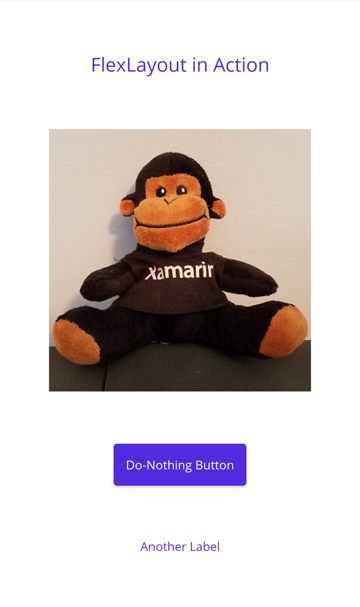
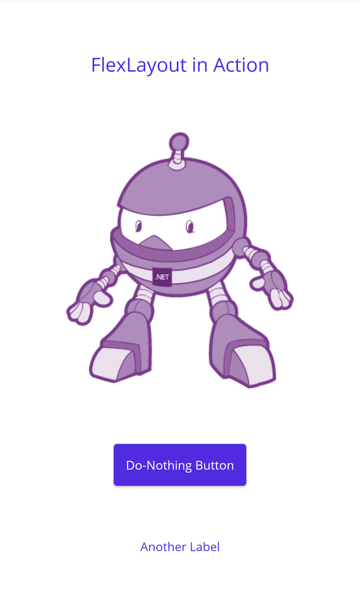
Another example.

diff --git a/docs/user-interface/layouts/flexlayout.md b/docs/user-interface/layouts/flexlayout.md
@@ -33,6 +33,8 @@ These properties are backed by `BindableProperty` objects, which means that the 
 > [!IMPORTANT]
 > When items in a `FlexLayout` are arranged in a column, the `FlexLayout` has a vertical *main axis* and a horizontal *cross axis*. When items in a `FlexLayout` are arranged in a row, the `FlexLayout` has a horizontal *main axis* and a vertical *cross axis*.
 
+<!-- `FlexLayout` and its children can be partially styled using Cascading Style Sheets (CSS). For more information, see [Styling apps using Cascading Style Sheets (CSS)](). -->
+
 ## Orientation and alignment
 
 The `Direction`, `Wrap`, `JustifyContent`, `AlignItems`, `AlignContent`, and `Position` bindable properties can be set on a `FlexLayout` to control orientation and alignment of all children.
@@ -150,7 +152,7 @@ Usually, children are arranged in the order in which they are added to the `Flex
 
 ### Basis
 
-The `Basis` property, of type `FlexBasis`, defines the amount of space that's allocated to a child on the main axis. The value specified by this property is the size along the main axis of the parent `FlexLayout`. Therefore, this property indicates the width of a child when children are arranged in rows, or the height of a child when children are arranged in columns.
+The `Basis` property, of type `FlexBasis`, defines the amount of space that's allocated to a child on the main axis. The value specified by this property is the size along the main axis of the parent `FlexLayout`. Therefore, this property indicates the width of a child when children are arranged in rows, or the height of a child when children are arranged in columns. This property is called *basis* because it specifies a size that is the basis of all subsequent layout.
 
 The `FlexBasis` type is a structure that enables size to be specified in device-independent units, or as a percentage of the size of the `FlexLayout`. The default value of the `Basis` property is `Auto`, which means that the child's requested width or height is used.
 
@@ -215,7 +217,8 @@ A `FlexLayout` can substitute for a `StackLayout`:
                 JustifyContent="SpaceEvenly">        
         <Label Text="FlexLayout in Action"
                FontSize="Large" />
-        <Image Source="seatedmonkey.jpg" />
+        <Image Source="dotnet_bot_branded.png"
+               HeightRequest="300" />
         <Button Text="Do-Nothing Button" />
         <Label Text="Another Label" />
     </FlexLayout>
@@ -259,14 +262,14 @@ In addition, the `FlexLayout` is a child of a `ScrollView`. Therefore, if there 
 
 ### Page layout
 
-There is a standard layout in web design called the [_holy grail_](https://en.wikipedia.org/wiki/Holy_grail_(web_design)) because it's a layout format that is very desirable, but often hard to realize with perfection. The layout consists of a header at the top of the page and a footer at the bottom, both extending to the full width of the page. Occupying the center of the page is the main content, but often with a columnar menu to the left of the content and supplementary information (sometimes called an _aside_ area) at the right. [Section 5.4.1 of the CSS Flexible Box Layout specification](https://www.w3.org/TR/css-flexbox-1/#order-accessibility) describes how the holy grail layout can be realized with a flex box.
+There is a standard layout in web design called the [*holy grail*](https://en.wikipedia.org/wiki/Holy_grail_(web_design)) because it's a layout format that is very desirable, but often hard to realize with perfection. The layout consists of a header at the top of the page and a footer at the bottom, both extending to the full width of the page. Occupying the center of the page is the main content, but often with a columnar menu to the left of the content and supplementary information (sometimes called an *aside* area) at the right. This layout can be realized with a `FlexLayout`.
 
-The **Holy Grail Layout** page of the **[FlexLayoutDemos](/samples/xamarin/xamarin-forms-samples/userinterface-flexlayoutdemos)** sample shows a simple implementation of this layout using one `FlexLayout` nested in another. Because this page is designed for a phone in portrait mode, the areas to the left and right of the content area are only 50 pixels wide:
+The following example shows an implementation of this layout using a `FlexLayout` nested in another:
 
 ```xaml
 <ContentPage xmlns="http://schemas.microsoft.com/dotnet/2021/maui"
              xmlns:x="http://schemas.microsoft.com/winfx/2009/xaml"
-             x:Class="FlexLayoutDemos.HolyGrailLayoutPage"
+             x:Class="FlexLayoutDemos.Views.HolyGrailLayoutPage"
              Title="Holy Grail Layout">
 
     <FlexLayout Direction="Column">
@@ -308,267 +311,11 @@ The **Holy Grail Layout** page of the **[FlexLayoutDemos](/samples/xamarin/xamar
 </ContentPage>
 ```
 
-Here it is running:
+The navigation and aside areas are rendered with a `BoxView` on the left and right. The first `FlexLayout` has a vertical main axis and contains three children arranged in a column. These are the header, the body of the page, and the footer. The nested `FlexLayout` has a horizontal main axis with three children arranged in a row:
 
-[![The Holy Grail Layout Page.](flex-layout-images/HolyGrailLayout.png "The Holy Grail Layout Page."](flex-layout-images/HolyGrailLayout-Large.png#lightbox)]
+:::image type="content" source="media/flexlayout/holy-grail.png" alt-text="Holy grail layout with the .NET MAUI FlexLayout.":::
 
-The navigation and aside areas are rendered with a `BoxView` on the left and right.
+In this example, the `Order` property is set on the first `BoxView` to a value less than its siblings to cause it to appear as the first item in the row. The `Basis` property is set on both `BoxView` objects to give them a width of 50 device-independent units. The `Grow` property is set on the nested `FlexLayout` to indicate that this `FlexLayout` should occupy all of the unused vertical space within the outer `FlexLayout`. In addition, the `Grow` property is set on the `Label` representing the content, to indicate that this content is to occupy all of the unused horizontal space within the nested `FlexLayout`.
 
-The first `FlexLayout` in the XAML file has a vertical main axis and contains three children arranged in a column. These are the header, the body of the page, and the footer. The nested `FlexLayout` has a horizontal main axis with three children arranged in a row.
-
-Three attached bindable properties are demonstrated in this program:
-
-- The `Order` attached bindable property is set on the first `BoxView`. This property is an integer with a default value of 0. You can use this property to change the layout order. Generally developers prefer the content of the page to appear in markup prior to the navigation items and aside items. Setting the `Order` property on the first `BoxView` to a value less than its other siblings causes it to appear as the first item in the row. Similarly, you can ensure that an item appears last by setting the `Order` property to a value greater than its siblings.
-
-- The `Basis` attached bindable property is set on the two `BoxView` items to give them a width of 50 pixels. This property is of type `FlexBasis`, a structure that defines a static property of type `FlexBasis` named `Auto`, which is the default. You can use `Basis` to  specify a pixel size or a percentage that indicates how much space the item occupies on the main axis. It is called a _basis_ because it specifies an item size that is the basis of all subsequent layout.
-
-- The `Grow` property is set on the nested `Layout` and on the `Label` child representing the content. This property is of type `float` and has a default value of 0. When set to a positive value, all the remaining space along the main axis is allocated to that item and to siblings with positive values of `Grow`. The space is allocated proportionally to the values, somewhat like the star specification in a `Grid`.
-
-    The first `Grow` attached property is set on the nested `FlexLayout`, indicating that this `FlexLayout` is to occupy all the unused vertical space within the outer `FlexLayout`. The second `Grow` attached property is set on the `Label` representing the content, indicating that this content is to occupy all the unused horizontal space within the inner `FlexLayout`.
-
-    There is also a similar `Shrink` attached bindable property that you can use when the size of children exceeds the size of the `FlexLayout` but wrapping is not desired.
-
-### Catalog items with FlexLayout
-
-The **Catalog Items** page in the **[FlexLayoutDemos](/samples/xamarin/xamarin-forms-samples/userinterface-flexlayoutdemos)** sample is similar to [Example 1 in Section 1.1 of the CSS Flex Layout Box specification](https://www.w3.org//TR/css-flexbox-1/#overview) except that it displays a horizontally scrollable series of pictures and descriptions of three monkeys:
-
-[![The Catalog Items Page.](flex-layout-images/CatalogItems.png "The Catalog Items Page."](flex-layout-images/CatalogItems-Large.png#lightbox)]
-
-Each of the three monkeys is a `FlexLayout` contained in a `Frame` that is given an explicit height and width, and which is also a child of a larger `FlexLayout`. In this XAML file, most of the properties of the `FlexLayout` children are specified in styles, all but one of which is an implicit style:
-
-```xaml
-<ContentPage xmlns="http://schemas.microsoft.com/dotnet/2021/maui"
-             xmlns:x="http://schemas.microsoft.com/winfx/2009/xaml"
-             xmlns:local="clr-namespace:FlexLayoutDemos"
-             x:Class="FlexLayoutDemos.CatalogItemsPage"
-             Title="Catalog Items">
-    <ContentPage.Resources>
-        <Style TargetType="Frame">
-            <Setter Property="BackgroundColor" Value="LightYellow" />
-            <Setter Property="BorderColor" Value="Blue" />
-            <Setter Property="Margin" Value="10" />
-            <Setter Property="CornerRadius" Value="15" />
-        </Style>
-
-        <Style TargetType="Label">
-            <Setter Property="Margin" Value="0, 4" />
-        </Style>
-
-        <Style x:Key="headerLabel" TargetType="Label">
-            <Setter Property="Margin" Value="0, 8" />
-            <Setter Property="FontSize" Value="Large" />
-            <Setter Property="TextColor" Value="Blue" />
-        </Style>
-
-        <Style TargetType="Image">
-            <Setter Property="FlexLayout.Order" Value="-1" />
-            <Setter Property="FlexLayout.AlignSelf" Value="Center" />
-        </Style>
-
-        <Style TargetType="Button">
-            <Setter Property="Text" Value="LEARN MORE" />
-            <Setter Property="FontSize" Value="Large" />
-            <Setter Property="TextColor" Value="White" />
-            <Setter Property="BackgroundColor" Value="Green" />
-            <Setter Property="BorderRadius" Value="20" />
-        </Style>
-    </ContentPage.Resources>
-
-    <ScrollView Orientation="Both">
-        <FlexLayout>
-            <Frame WidthRequest="300"
-                   HeightRequest="480">
-
-                <FlexLayout Direction="Column">
-                    <Label Text="Seated Monkey"
-                           Style="{StaticResource headerLabel}" />
-                    <Label Text="This monkey is laid back and relaxed, and likes to watch the world go by." />
-                    <Label Text="  &#x2022; Doesn't make a lot of noise" />
-                    <Label Text="  &#x2022; Often smiles mysteriously" />
-                    <Label Text="  &#x2022; Sleeps sitting up" />
-                    <Image Source="{local:ImageResource FlexLayoutDemos.Images.SeatedMonkey.jpg}"
-                           WidthRequest="180"
-                           HeightRequest="180" />
-                    <Label FlexLayout.Grow="1" />
-                    <Button />
-                </FlexLayout>
-            </Frame>
-
-            <Frame WidthRequest="300"
-                   HeightRequest="480">
-
-                <FlexLayout Direction="Column">
-                    <Label Text="Banana Monkey"
-                           Style="{StaticResource headerLabel}" />
-                    <Label Text="Watch this monkey eat a giant banana." />
-                    <Label Text="  &#x2022; More fun than a barrel of monkeys" />
-                    <Label Text="  &#x2022; Banana not included" />
-                    <Image Source="{local:ImageResource FlexLayoutDemos.Images.Banana.jpg}"
-                           WidthRequest="240"
-                           HeightRequest="180" />
-                    <Label FlexLayout.Grow="1" />
-                    <Button />
-                </FlexLayout>
-            </Frame>
-
-            <Frame WidthRequest="300"
-                   HeightRequest="480">
-
-                <FlexLayout Direction="Column">
-                    <Label Text="Face-Palm Monkey"
-                           Style="{StaticResource headerLabel}" />
-                    <Label Text="This monkey reacts appropriately to ridiculous assertions and actions." />
-                    <Label Text="  &#x2022; Cynical but not unfriendly" />
-                    <Label Text="  &#x2022; Seven varieties of grimaces" />
-                    <Label Text="  &#x2022; Doesn't laugh at your jokes" />
-                    <Image Source="{local:ImageResource FlexLayoutDemos.Images.FacePalm.jpg}"
-                           WidthRequest="180"
-                           HeightRequest="180" />
-                    <Label FlexLayout.Grow="1" />
-                    <Button />
-                </FlexLayout>
-            </Frame>
-        </FlexLayout>
-    </ScrollView>
-</ContentPage>
-```
-
-The implicit style for the `Image` includes settings of two attached bindable properties of `Flexlayout`:
-
-```xaml
-<Style TargetType="Image">
-    <Setter Property="FlexLayout.Order" Value="-1" />
-    <Setter Property="FlexLayout.AlignSelf" Value="Center" />
-</Style>
-```
-
-The `Order` setting of &ndash;1 causes the `Image` element to be displayed first in each of the nested `FlexLayout` views regardless of its position within the children collection. The `AlignSelf` property of `Center` causes the `Image` to be centered within the `FlexLayout`. This overrides the setting of the `AlignItems` property, which has a default value of `Stretch`, meaning that the `Label` and `Button` children are stretched to the full width of the `FlexLayout`.
-
-Within each of the three `FlexLayout` views, a blank `Label` precedes the `Button`, but it has a `Grow` setting of 1. This means that all the extra vertical space is allocated to this blank `Label`, which effectively pushes the `Button` to the bottom.
-
-## CSS styling with FlexLayout
-
-You can use the [CSS styling](~/xamarin-forms/user-interface/styles/css/index.md) feature introduced with .NET MAUI 3.0 in connection with `FlexLayout`. The **CSS Catalog Items** page of the **[FlexLayoutDemos](/samples/xamarin/xamarin-forms-samples/userinterface-flexlayoutdemos)** sample duplicates the layout of the **Catalog Items** page, but with a CSS style sheet for many of the styles:
-
-[![The CSS Catalog Items Page.](flex-layout-images/CssCatalogItems.png "The CSS Catalog Items Page."](flex-layout-images/CssCatalogItems-Large.png#lightbox)]
-
-The original **CatalogItemsPage.xaml** file has five `Style` definitions in its `Resources` section with 15 `Setter` objects. In the **CssCatalogItemsPage.xaml** file, that has been reduced to two `Style` definitions with just four `Setter` objects. These styles supplement the CSS style sheet for properties that the .NET MAUI CSS styling feature currently doesn't support:
-
-```xaml
-<ContentPage xmlns="http://schemas.microsoft.com/dotnet/2021/maui"
-             xmlns:x="http://schemas.microsoft.com/winfx/2009/xaml"
-             xmlns:local="clr-namespace:FlexLayoutDemos"
-             x:Class="FlexLayoutDemos.CssCatalogItemsPage"
-             Title="CSS Catalog Items">
-    <ContentPage.Resources>
-        <StyleSheet Source="CatalogItemsStyles.css" />
-
-        <Style TargetType="Frame">
-            <Setter Property="BorderColor" Value="Blue" />
-            <Setter Property="CornerRadius" Value="15" />
-        </Style>
-
-        <Style TargetType="Button">
-            <Setter Property="Text" Value="LEARN MORE" />
-            <Setter Property="BorderRadius" Value="20" />
-        </Style>
-    </ContentPage.Resources>
-
-    <ScrollView Orientation="Both">
-        <FlexLayout>
-            <Frame>
-                <FlexLayout Direction="Column">
-                    <Label Text="Seated Monkey" StyleClass="header" />
-                    <Label Text="This monkey is laid back and relaxed, and likes to watch the world go by." />
-                    <Label Text="  &#x2022; Doesn't make a lot of noise" />
-                    <Label Text="  &#x2022; Often smiles mysteriously" />
-                    <Label Text="  &#x2022; Sleeps sitting up" />
-                    <Image Source="{local:ImageResource FlexLayoutDemos.Images.SeatedMonkey.jpg}" />
-                    <Label StyleClass="empty" />
-                    <Button />
-                </FlexLayout>
-            </Frame>
-
-            <Frame>
-                <FlexLayout Direction="Column">
-                    <Label Text="Banana Monkey" StyleClass="header" />
-                    <Label Text="Watch this monkey eat a giant banana." />
-                    <Label Text="  &#x2022; More fun than a barrel of monkeys" />
-                    <Label Text="  &#x2022; Banana not included" />
-                    <Image Source="{local:ImageResource FlexLayoutDemos.Images.Banana.jpg}" />
-                    <Label StyleClass="empty" />
-                    <Button />
-                </FlexLayout>
-            </Frame>
-
-            <Frame>
-                <FlexLayout Direction="Column">
-                    <Label Text="Face-Palm Monkey" StyleClass="header" />
-                    <Label Text="This monkey reacts appropriately to ridiculous assertions and actions." />
-                    <Label Text="  &#x2022; Cynical but not unfriendly" />
-                    <Label Text="  &#x2022; Seven varieties of grimaces" />
-                    <Label Text="  &#x2022; Doesn't laugh at your jokes" />
-                    <Image Source="{local:ImageResource FlexLayoutDemos.Images.FacePalm.jpg}" />
-                    <Label StyleClass="empty" />
-                    <Button />
-                </FlexLayout>
-            </Frame>
-        </FlexLayout>
-    </ScrollView>
-</ContentPage>
-```
-
-The CSS style sheet is referenced in the first line of the `Resources` section:
-
-```xaml
-<StyleSheet Source="CatalogItemsStyles.css" />
-```
-
-Notice also that two elements in each of the three items include `StyleClass` settings:
-
-```xaml
-<Label Text="Seated Monkey" StyleClass="header" />
-···
-<Label StyleClass="empty" />
-```
-
-These refer to selectors in the **CatalogItemsStyles.css** style sheet:
-
-```css
-frame {
-    width: 300;
-    height: 480;
-    background-color: lightyellow;
-    margin: 10;
-}
-
-label {
-    margin: 4 0;
-}
-
-label.header {
-    margin: 8 0;
-    font-size: large;
-    color: blue;
-}
-
-label.empty {
-    flex-grow: 1;
-}
-
-image {
-    height: 180;
-    order: -1;
-    align-self: center;
-}
-
-button {
-    font-size: large;
-    color: white;
-    background-color: green;
-}
-```
-
-Several `FlexLayout` attached bindable properties are referenced here. In the `label.empty` selector, you'll see the `flex-grow` attribute, which styles an empty `Label` to provide some blank space above the `Button`. The `image` selector contains an `order` attribute and an `align-self` attribute, both of which correspond to `FlexLayout` attached bindable properties.
-
-You've seen that you can set properties directly on the `FlexLayout` and you can set attached bindable properties on the children of a `FlexLayout`. Or, you can set these properties indirectly using traditional XAML-based styles or CSS styles. What's important is to know and understand these properties. These properties are what makes the `FlexLayout` truly flexible.
+> [!NOTE]
+> There's also a `Shrink` property that you can use when the size of children exceeds the size of the `FlexLayout` but wrapping is not desired.
